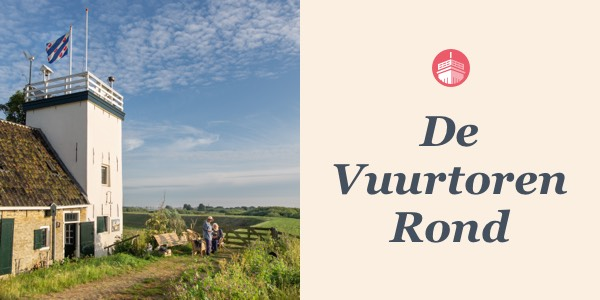
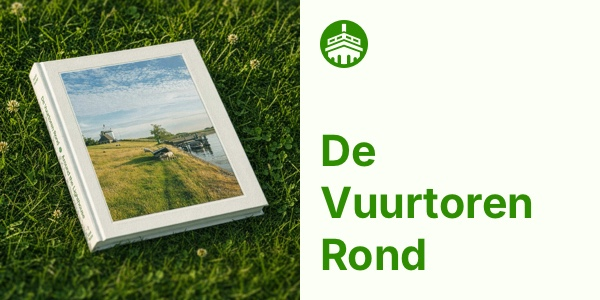
Add new homepage social share images

diff --git a/en/index.html b/en/index.html
@@ -25,10 +25,10 @@
 	<meta property="og:url" content="https://www.devuurtorenrond.nl/en/">
 	<meta property="og:title" content="De Vuurtoren Rond — The Photo Book">
 	<meta property="og:description" content="Photo book about a year around the lighthouse of Workum. 172 pages, NL &amp; EN, by Loek Buter and Jasper Hauser. ISBN 9789465264868.">
-	<meta property="og:image" content="https://www.devuurtorenrond.nl/images/boek/hero-spread.jpg">
-	<meta property="og:image:width" content="2500">
-	<meta property="og:image:height" content="2165">
-	<meta property="og:image:alt" content="De Vuurtoren Rond — spread and cover of the photo book">
+	<meta property="og:image" content="https://www.devuurtorenrond.nl/images/social-card-en@2x.jpg">
+	<meta property="og:image:width" content="1200">
+	<meta property="og:image:height" content="600">
+	<meta property="og:image:alt" content="De Vuurtoren Rond — photo book about life around the lighthouse of Workum">
 	<meta property="og:site_name" content="De Vuurtoren Rond">
 	<meta property="og:locale" content="en_US">
 	<meta property="og:locale:alternate" content="nl_NL">
@@ -36,8 +36,8 @@
 	<meta name="twitter:card" content="summary_large_image">
 	<meta name="twitter:title" content="De Vuurtoren Rond — The Photo Book">
 	<meta name="twitter:description" content="Photo book about a year around the lighthouse of Workum. 172 pages, NL &amp; EN. ISBN 9789465264868. Pre-order €55.">
-	<meta name="twitter:image" content="https://www.devuurtorenrond.nl/images/boek/hero-spread.jpg">
-	<meta name="twitter:image:alt" content="De Vuurtoren Rond — spread and cover of the photo book">
+	<meta name="twitter:image" content="https://www.devuurtorenrond.nl/images/social-card-en@2x.jpg">
+	<meta name="twitter:image:alt" content="De Vuurtoren Rond — photo book about life around the lighthouse of Workum">
 	<meta name="twitter:site" content="@jasperhauser">
 	<meta name="twitter:creator" content="@jasperhauser">
 
@@ -55,7 +55,7 @@
 				"inLanguage": ["nl", "en"],
 				"bookFormat": "Hardcover",
 				"description": "Photo book about Reid and Cornelie and their self-sufficient life around the lighthouse of Workum ('It Toarntsje), with photographs by Loek Buter and texts by Loek Buter and Jasper Hauser.",
-				"image": "https://www.devuurtorenrond.nl/images/boek/hero-spread.jpg",
+				"image": "https://www.devuurtorenrond.nl/images/social-card-en@2x.jpg",
 				"url": "https://www.devuurtorenrond.nl/en/",
 				"author": [
 					{ "@type": "Person", "name": "Loek Buter", "url": "https://www.loekbuter.com" },

diff --git a/index.html b/index.html
@@ -25,10 +25,10 @@
 	<meta property="og:url" content="https://www.devuurtorenrond.nl/index-boek.html">
 	<meta property="og:title" content="De Vuurtoren Rond — Het fotoboek">
 	<meta property="og:description" content="Fotoboek over een jaar rond de vuurtoren van Workum. 172 pagina's, NL &amp; EN, door Loek Buter en Jasper Hauser. ISBN 9789465264868.">
-	<meta property="og:image" content="https://www.devuurtorenrond.nl/images/boek/hero-spread.jpg">
-	<meta property="og:image:width" content="2500">
-	<meta property="og:image:height" content="2165">
-	<meta property="og:image:alt" content="De Vuurtoren Rond — spread en omslag van het fotoboek">
+	<meta property="og:image" content="https://www.devuurtorenrond.nl/images/social-card@2x.jpg">
+	<meta property="og:image:width" content="1200">
+	<meta property="og:image:height" content="600">
+	<meta property="og:image:alt" content="De Vuurtoren Rond — fotoboek over het leven rond de vuurtoren van Workum">
 	<meta property="og:site_name" content="De Vuurtoren Rond">
 	<meta property="og:locale" content="nl_NL">
 	<meta property="og:locale:alternate" content="en_US">
@@ -36,8 +36,8 @@
 	<meta name="twitter:card" content="summary_large_image">
 	<meta name="twitter:title" content="De Vuurtoren Rond — Het fotoboek">
 	<meta name="twitter:description" content="Fotoboek over een jaar rond de vuurtoren van Workum. 172 pagina's, NL &amp; EN. ISBN 9789465264868. Voorverkoop €55.">
-	<meta name="twitter:image" content="https://www.devuurtorenrond.nl/images/boek/hero-spread.jpg">
-	<meta name="twitter:image:alt" content="De Vuurtoren Rond — spread en omslag van het fotoboek">
+	<meta name="twitter:image" content="https://www.devuurtorenrond.nl/images/social-card@2x.jpg">
+	<meta name="twitter:image:alt" content="De Vuurtoren Rond — fotoboek over het leven rond de vuurtoren van Workum">
 	<meta name="twitter:site" content="@jasperhauser">
 	<meta name="twitter:creator" content="@jasperhauser">
 
@@ -55,7 +55,7 @@
 				"inLanguage": ["nl", "en"],
 				"bookFormat": "Hardcover",
 				"description": "Fotoboek over Reid en Cornelie en hun zelfvoorzienende leven rond de vuurtoren van Workum ('It Toarntsje), met foto's van Loek Buter en teksten van Loek Buter en Jasper Hauser.",
-				"image": "https://www.devuurtorenrond.nl/images/boek/hero-spread.jpg",
+				"image": "https://www.devuurtorenrond.nl/images/social-card@2x.jpg",
 				"url": "https://www.devuurtorenrond.nl/index-boek.html",
 				"author": [
 					{ "@type": "Person", "name": "Loek Buter", "url": "https://www.loekbuter.com" },
